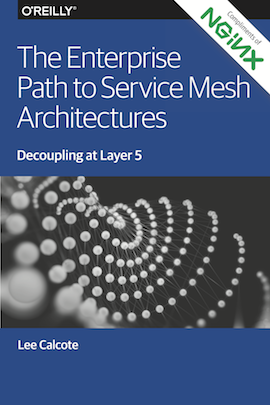
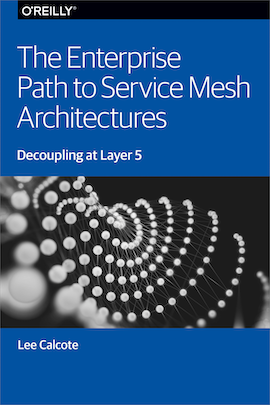
updated cover image

diff --git a/collections/_posts/2018-06-08-the-enterprise-path-to-servcie-mesh.md b/collections/_posts/2018-06-08-the-enterprise-path-to-servcie-mesh.md
@@ -9,7 +9,7 @@ author: "Lee Calcote "
 By Lee Calcote
 
 <div class="row" style="float:right;padding:10px;text-align:center;">
-<a href="/assets/images/The-Enterprise-Path-to-Service-Mesh-Architectures.png"><img src="/assets/images/The-Enterprise-Path-to-Service-Mesh-Architectures-200x300.png" alt="" width="200" height="300" /></a><br />
+<a href="/assets/images/The-Enterprise-Path-to-Service-Mesh-Architectures.png"><img src="/assets/images/The-Enterprise-Path-to-Service-Mesh-Architectures-small.png" alt="" width="200" height="300" /></a><br />
   <a id="home" class="waves-effect waves-dark btn white-text darken-2 l5-light-blue z-depth-4" href="https://www.nginx.com/resources/library/the-enterprise-path-to-service-mesh-architectures?utm_source=calcote">Get the free ebook</a>
 </div>As someone interested in modern software design, you have heard of service mesh architectures in context of microservices. Service meshes introduce a new layer into modern infrastructures, offering the potential for creating robust and scalable applications and granular control over them. Is a service mesh right for you? This book will help answer common questions on service mesh architectures through the lens of a large enterprise and addresses how to evaluate your organization’s readiness, factors to consider when building new applications and converting existing applications to best leverage a service mesh, and offers insight on deployment architectures used to get you there. 
 

diff --git a/collections/_posts/2018-06-11-the-enterprise-path-to-service-mesh.md b/collections/_posts/2018-06-11-the-enterprise-path-to-service-mesh.md
@@ -10,7 +10,7 @@ author: Lee Calcote
 By Lee Calcote
 
 <div class="row" style="float:right;padding:10px;text-align:center;">
-<a href="/assets/images/The-Enterprise-Path-to-Service-Mesh-Architectures.png"><img src="/assets/images/The-Enterprise-Path-to-Service-Mesh-Architectures-200x300.png" alt="" width="200" height="300" /></a><br />
+<a href="/assets/images/The-Enterprise-Path-to-Service-Mesh-Architectures.png"><img src="/assets/images/The-Enterprise-Path-to-Service-Mesh-Architectures-small.png" alt="" width="200" height="300" /></a><br />
   <a id="home" class="waves-effect waves-dark btn white-text darken-2 l5-light-blue z-depth-4" href="https://www.nginx.com/resources/library/the-enterprise-path-to-service-mesh-architectures?utm_source=calcote">Get the free ebook</a>
 </div>As someone interested in modern software design, you have heard of service mesh architectures in context of microservices. Service meshes introduce a new layer into modern infrastructures, offering the potential for creating robust and scalable applications and granular control over them. Is a service mesh right for you? This book will help answer common questions on service mesh architectures through the lens of a large enterprise and addresses how to evaluate your organization’s readiness, factors to consider when building new applications and converting existing applications to best leverage a service mesh, and offers insight on deployment architectures used to get you there. 
 

diff --git a/collections/_books/2018-06-08-the-enterprise-path-to-servcie-mesh.md b/collections/_books/2018-06-08-the-enterprise-path-to-servcie-mesh.md
@@ -11,7 +11,7 @@ status: published
 By Lee Calcote
 
 <div class="row" style="float:right;padding:10px;text-align:center;">
-<a href="/assets/images/The-Enterprise-Path-to-Service-Mesh-Architectures.png"><img src="/assets/images/The-Enterprise-Path-to-Service-Mesh-Architectures-200x300.png" alt="" width="200" height="300" /></a><br />
+<a href="/assets/images/The-Enterprise-Path-to-Service-Mesh-Architectures.png"><img src="/assets/images/The-Enterprise-Path-to-Service-Mesh-Architectures-small.png" alt="" width="200" height="300" /></a><br />
   <a id="home" class="waves-effect waves-dark btn white-text darken-2 l5-light-blue z-depth-4" href="https://www.nginx.com/resources/library/the-enterprise-path-to-service-mesh-architectures?utm_source=calcote">Get the free ebook</a>
 </div>As someone interested in modern software design, you have heard of service mesh architectures in context of microservices. Service meshes introduce a new layer into modern infrastructures, offering the potential for creating robust and scalable applications and granular control over them. Is a service mesh right for you? This book will help answer common questions on service mesh architectures through the lens of a large enterprise and addresses how to evaluate your organization’s readiness, factors to consider when building new applications and converting existing applications to best leverage a service mesh, and offers insight on deployment architectures used to get you there. 
 
